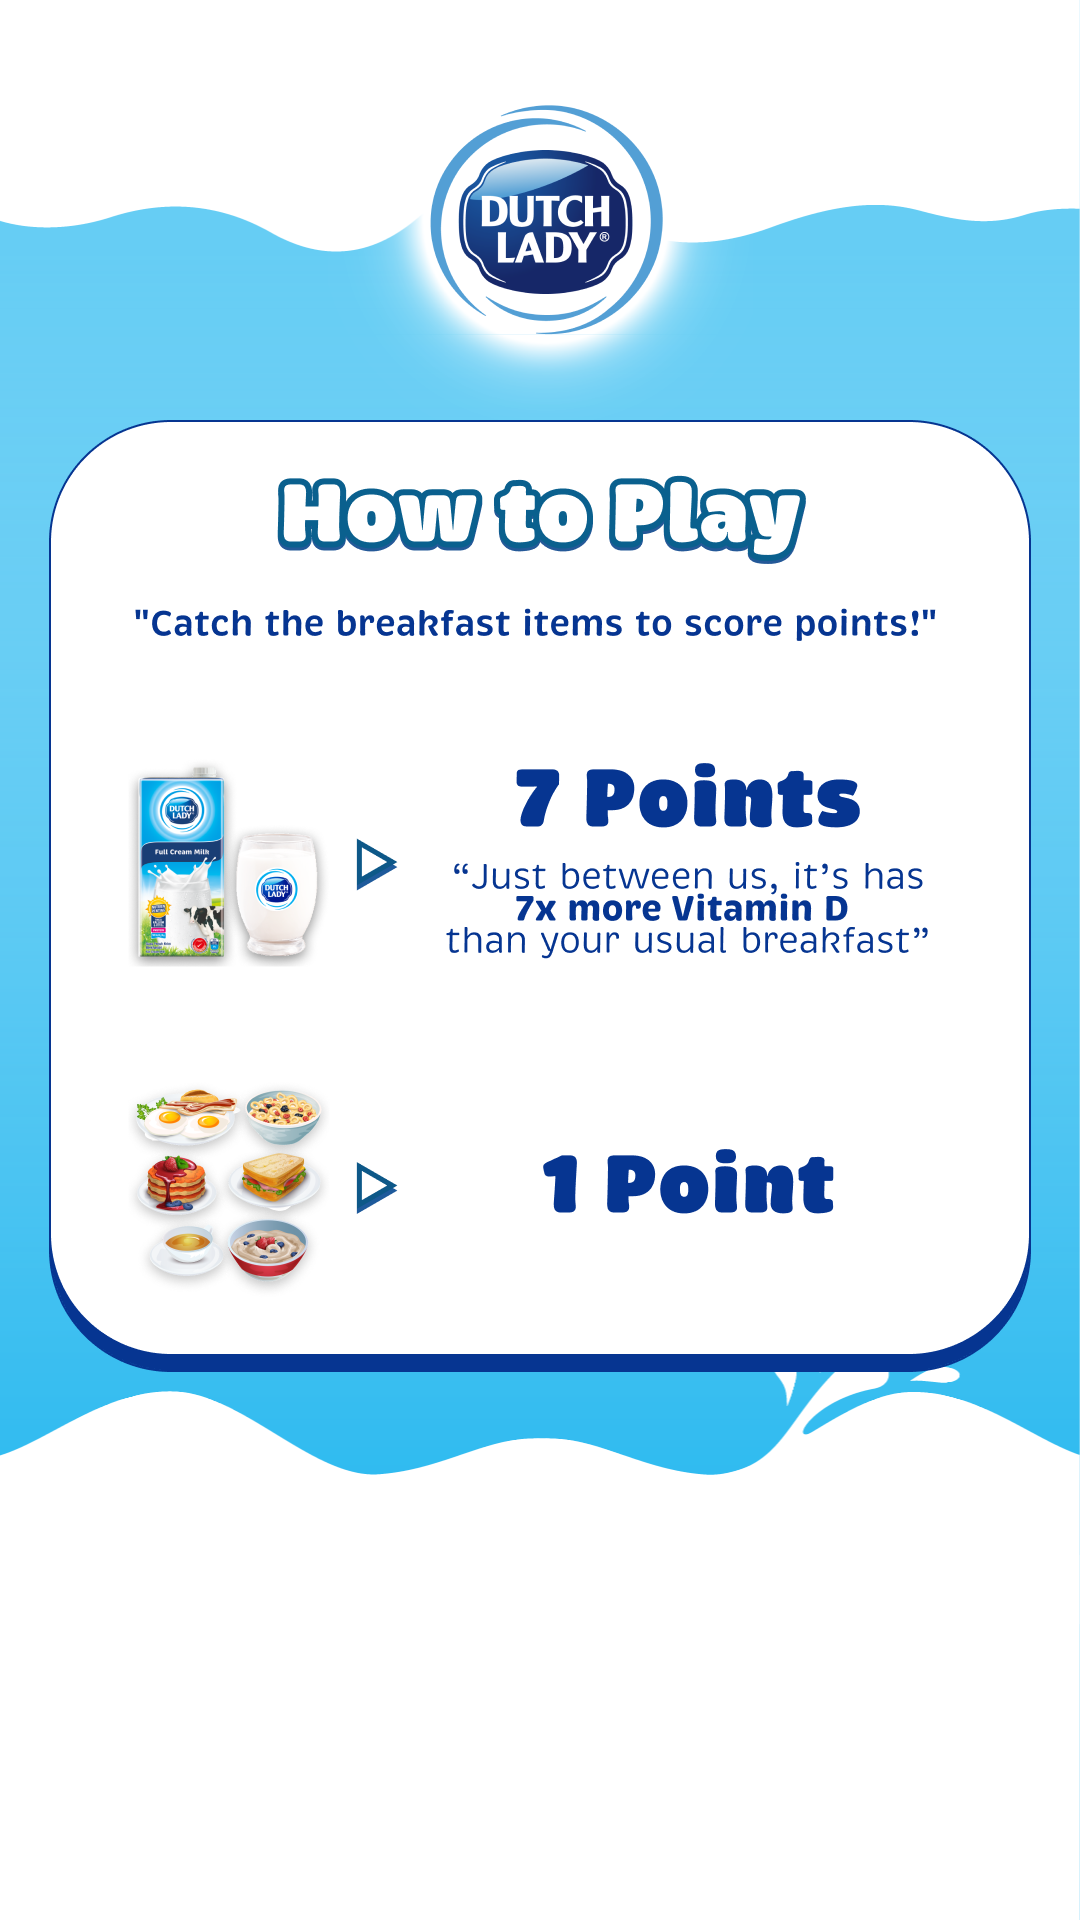
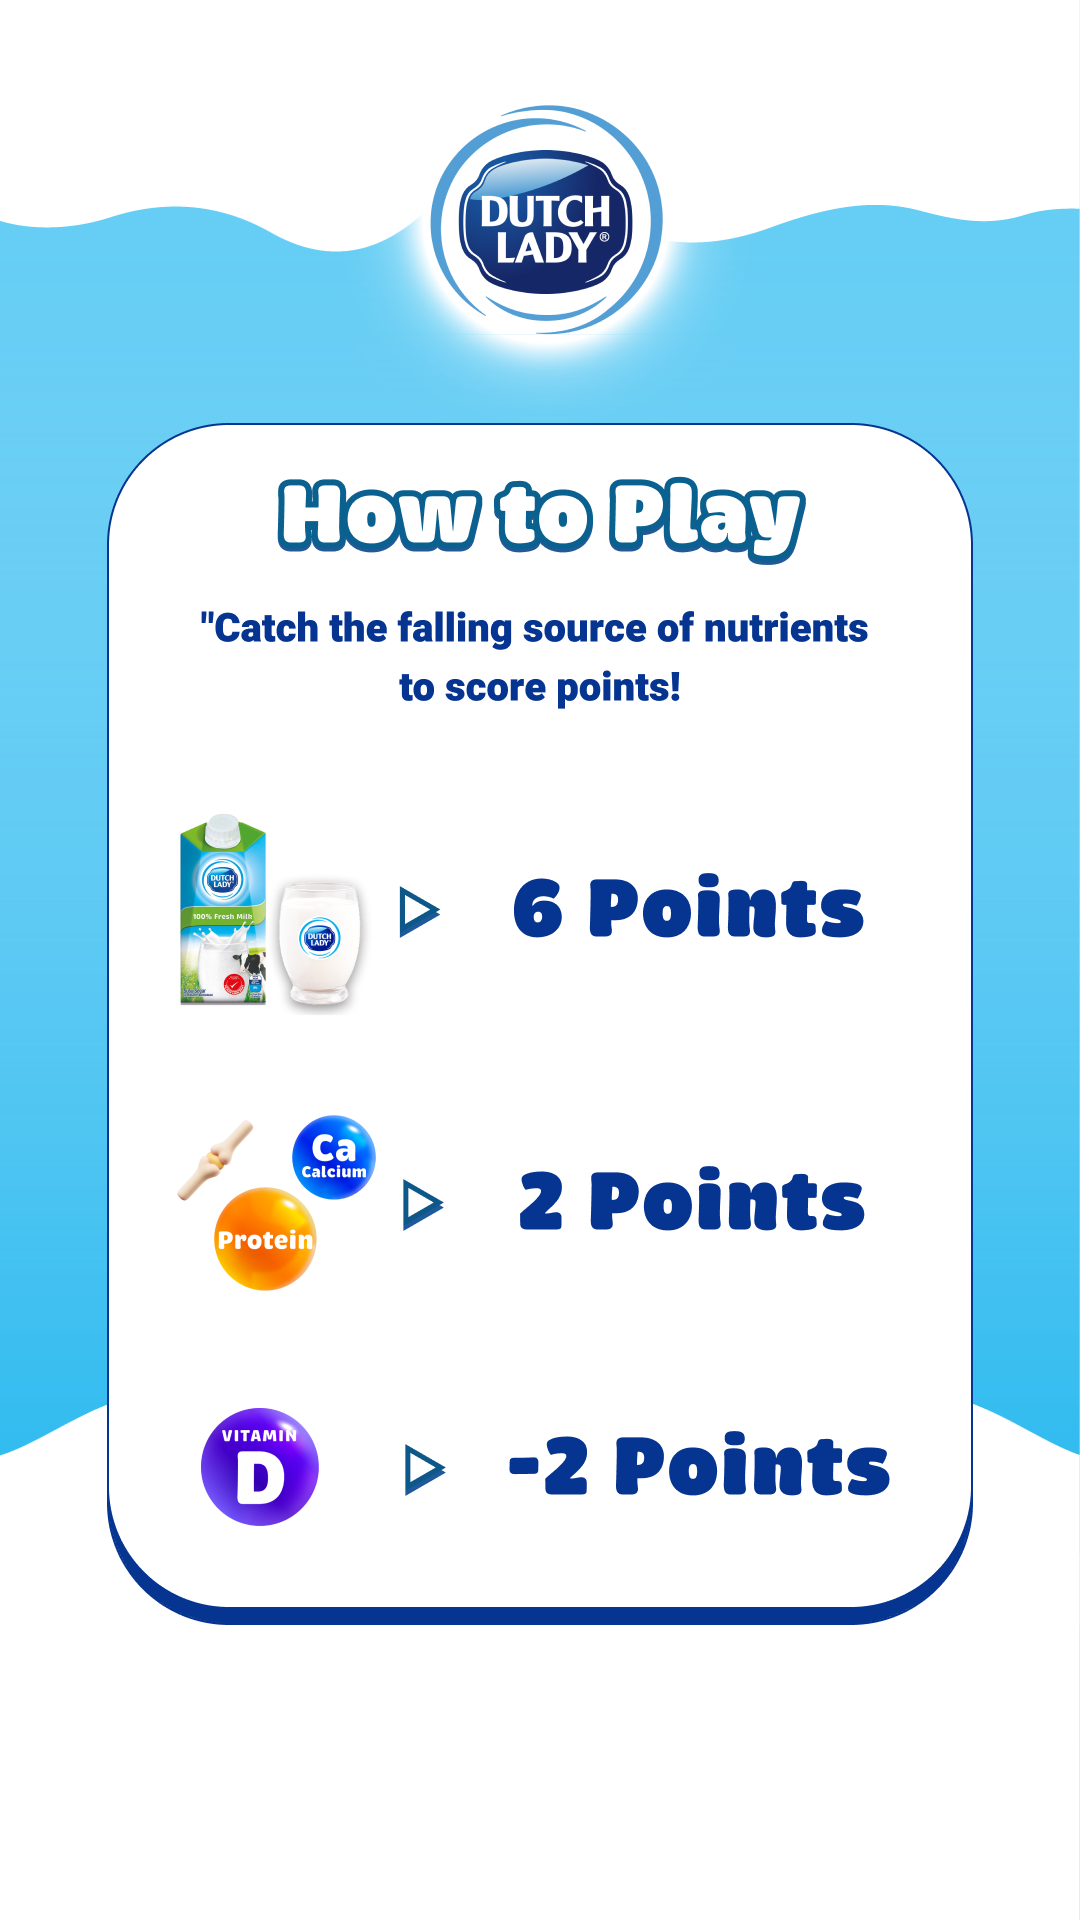
remove outdated falling object assets and update game object paths; adjust button positioning and text in instruction page

diff --git a/game.js b/game.js
@@ -55,14 +55,12 @@ function preload() {
     
     // Load good objects from folder and parse points from filename
     this.goodObjects = [
-        { key: 'goodObject_1_1', path: 'assets/dutch/fallingObjects/1 point (1).webp', points: 1 },
-        { key: 'goodObject_1_2', path: 'assets/dutch/fallingObjects/1 point (2).webp', points: 1 },
-        { key: 'goodObject_1_3', path: 'assets/dutch/fallingObjects/1 point (3).webp', points: 1 },
-        { key: 'goodObject_1_4', path: 'assets/dutch/fallingObjects/1 point (4).webp', points: 1 },
-        { key: 'goodObject_1_5', path: 'assets/dutch/fallingObjects/1 point (5).webp', points: 1 },
-        { key: 'goodObject_1_6', path: 'assets/dutch/fallingObjects/1 point (6).webp', points: 1 },
-        { key: 'goodObject_7_1', path: 'assets/dutch/fallingObjects/7 point (1).webp', points: 7 },
-        { key: 'goodObject_7_2', path: 'assets/dutch/fallingObjects/7 point (2).webp', points: 7 },
+        { key: 'goodObject_1_1', path: 'assets/dutch/fallingObjects/Game_FSStation_Bone.webp', points: 2 },
+        { key: 'goodObject_1_2', path: 'assets/dutch/fallingObjects/Game_FSStation_Bone.webp', points: 2 },
+        { key: 'goodObject_1_3', path: 'assets/dutch/fallingObjects/Game_FSStation_Pro.webp', points: 2 },
+        { key: 'goodObject_1_4', path: 'assets/dutch/fallingObjects/Game_FSStation_VitD.webp', points: -2 },
+        { key: 'goodObject_7_1', path: 'assets/dutch/fallingObjects/7 point (1).webp', points: 6 },
+        { key: 'goodObject_7_2', path: 'assets/dutch/fallingObjects/7 point (2).webp', points: 6 },
     ];
 
     this.goodObjects.forEach(obj => {
@@ -404,7 +402,7 @@ function catchItem(bowlContainer, item) {
         const splashY = item.y;
 
         const milkSplash = this.add.image(splashX, splashY, 'milkSplash').setOrigin(0.5).setDepth(101).setScale(0.2);
-        const scorePopup = this.add.text(splashX, splashY, `+${points}`, {
+        const scorePopup = this.add.text(splashX, splashY, points > 0 ? `+${points}` : `${points}`, {
             fontFamily: 'HvDTrial_Brevia-ExtraBlack-BF6493a4064f0ec',
             fontSize: '40px',
             color: '#063591', // Dark blue color for visibility

diff --git a/instruction.html b/instruction.html
@@ -33,7 +33,7 @@
 
         .buttoncontainer {
             position: absolute;
-            bottom: 15%;
+            bottom: 9%;
             left: 50%;
             transform: translateX(-50%);
         }
@@ -67,7 +67,7 @@
                 selectedLang = 'chinese';
             } else {
                 body.style.backgroundImage = "url('assets/dutch/instruction.webp')";
-                startButton.innerText = "LET’S GO";
+                startButton.innerText = "Continue";
                 selectedLang = 'english';
             }
 

diff --git a/finish.html b/finish.html
@@ -137,7 +137,6 @@
 
 <body>
     <div class="score">
-        <p class="your-score">YOUR SCORE:</p>
         <p id="score"></p>
         <p class="POINTS">POINTS</p>
     </div>
